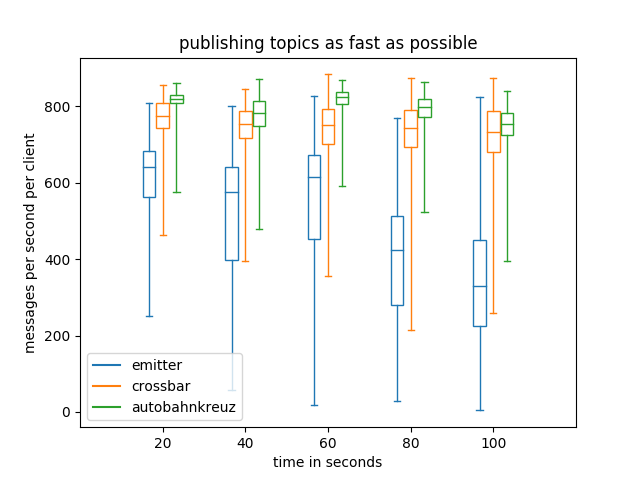
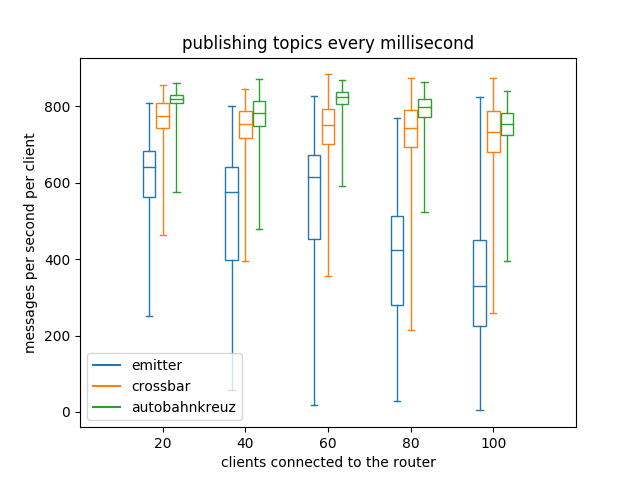
Rephrase performance chapter

Changed region(s): [[0.2812, 0.0625, 0.75, 0.125], [0.3438, 0.9375, 0.6875, 1.0]]

diff --git a/scenarios/high-load/plot.py b/scenarios/high-load/plot.py
@@ -15,8 +15,8 @@ def set_box_color(bp, color):
     plt.setp(bp['medians'], color=color)
 
 path = sys.argv[1]
-plt.title('publishing topics as fast as possible')
-plt.xlabel('time in seconds')
+plt.title('publishing topics every millisecond')
+plt.xlabel('clients connected to the router')
 plt.ylabel('messages per second per client')
 
 for idx, filename in enumerate(glob.glob(path + "-*.csv")):

diff --git a/paper/paper.md b/paper/paper.md
@@ -118,7 +118,9 @@ In order to connect all router replicas with each other, the leader tells all ot
 
 ## Performance
 
-Autobahnkreuz was implemented as a prototypical implementation to prove the feasibility of a distributed WAMP routing application. It was planned to have incomplete WAMP protocol support and expected to be inferior to existing cloud-native routing applications. Four scenarios were designed to evaluate the success of this project by comparing Autobahnkreuz to Crossbar and Emitter. The scenarios take the previously set goals for this project into account. Five virtual machines with two virtual CPU cores with 2.1GHz clock frequency and 8 gigabytes of RAM each were used. A RancherOS with a RKE Kubernetes setup is installed on the nodes.
+Autobahnkreuz was implemented as a prototypical implementation to prove the feasibility of a distributed WAMP routing application. It was planned to have incomplete WAMP protocol support and expected to be inferior to existing cloud-native routing applications. As of the distributed nature of Autobahnkreuz, the router has the potential to have better performance in environments with many clients as in theory it is capable of distributing the client connections over multiple router replicas. Additionally, the availability of Autobahnkreuz can be higher than a single instance router's availability. If a running Crossbar instance fails, the routing service becomes unavailable until the router is restarted. For Autobahnkreuz other replicas are still able to handle new connections even if one replica has failed. However, active connections of a failed replica cannot be taken over by other replicas in the current state of the Autobahnkreuz implementation.
+
+To compare Autobahnkreuz to existing WAMP routing implementations four scenarios were designed to evaluate the success of the project by comparing it to Crossbar and Emitter. The scenarios take the previously set goals for this project into account. Five virtual machines with two virtual CPU cores with 2.1GHz clock frequency and 8 gigabytes of RAM each were used. A RancherOS with a RKE Kubernetes setup is installed on the nodes. Due to implementation difficulties of the NodeJS test clients, more clients are spawned in the scenarios in favor of running less clients with more publications per second. The cause of the problem is the global interpreter lock of the NodeJS virtual machine which makes it impossible with the current state of the WAMP and MQTT client libraries to use asynchronous websocket operations in an endless loop. As this is not related to the router implementation, it is counteracted by spawning more clients to make the routers process more messages.
 
 ### Container Size
 
